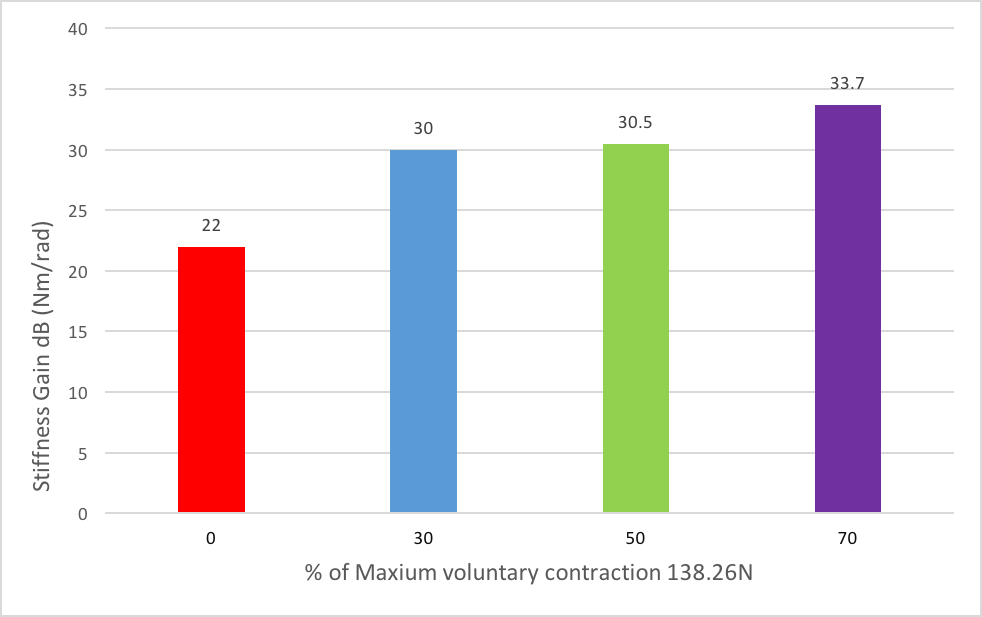
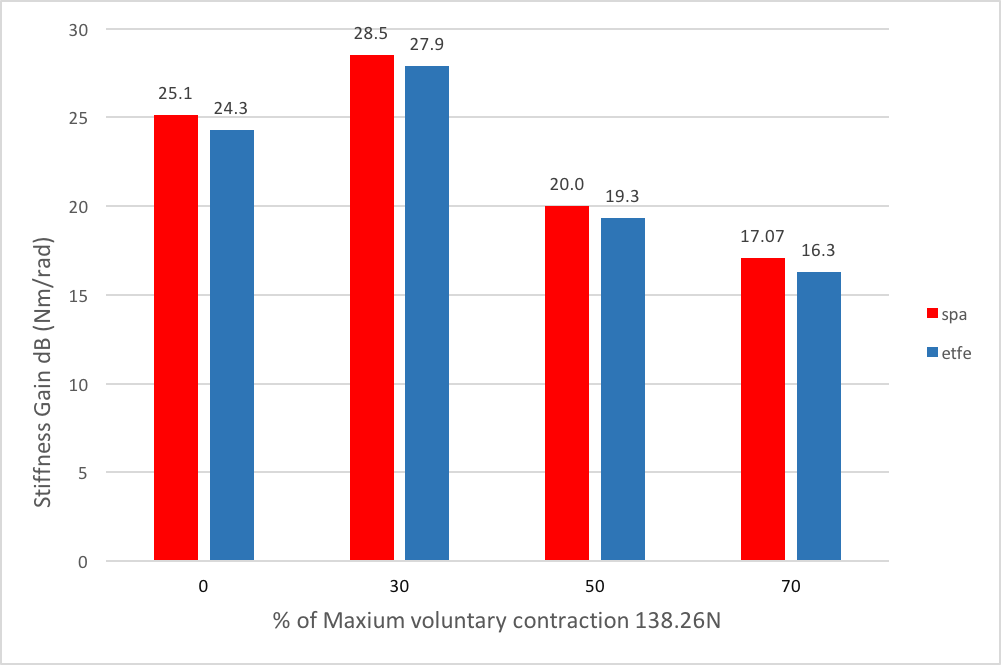
changesomedata

diff --git a/_site/projects/project-7/index.html b/_site/projects/project-7/index.html
@@ -58,7 +58,7 @@
 
 <p>Human ankle impedance system was modeled as a second order linear time-invariant system.</p>
 
-<p>The position input was filtered Gaussian white noise input with an amplitude of 1 rad, filtered using 4th-order Butterworth low-pass filter with 20-Hz cutoff frequency, and a total time of 5 seconds. The simulation sample frequency was 2000 Hz. Noise, which was also filtered using a low-pass filter with 20-Hz cutoff frequency, was added to the output data to more accurately simulate a real system. Torque as output data was collected.</p>
+<p>The position input was filtered Gaussian white noise input with an amplitude of 1 rad, filtered using 4th-order Butterworth low-pass filter with 20-Hz cutoff frequency, and a total time of 5 seconds. The simulation sample frequency was 2000 Hz. Noise, which was also filtered using a low-pass filter with 20-Hz cutoff frequency, was added to the output data to more accurately simulate a real system. The signal to noise ratio was set to be higher than 10. Torque as output data was collected. Torque as output data was collected.</p>
 
 <h3 id="correlation-analysis">Correlation Analysis</h3>
 
@@ -114,22 +114,25 @@ The maximum voluntary contraction (MVC) of the subject was 138.2622N.</p>
 <p align="center">
 <img src="/portfolio//public/images/CPPM_7.jpg" width="500" height="300" />
 </p>
+<center> Impulse response of one trail </center>
 
 <p>Frequency response was identified with Matlab function: <strong>spa</strong> &amp; <strong>etfe</strong></p>
 <p align="center">
-<img src="/portfolio//public/images/CPPM_8.jpg" width="500" height="300" />
+<img src="/portfolio//public/images/CPPM_8.jpg" width="400" height="450" />
 </p>
-<p>It could be seen that increases in the mean torque shift the low-frequency gain curve while the resonant point moves to a higher frequency. The inertial which is the slope of the frequency response almost constant over a wide range of mean torques.</p>
+<center> Frequency response of one trail </center>
 
-<p>The stiffness was determined from the intercept of the frequency response and the magnitude axis, since the value of the magnitude of the frequency response function for small  is log(1/k), k is stiffness.</p>
+<p>It could be seen that stiffness gain was flat at low frequencies, had a resonant valley at intermediate frequencies and rose at high frequencies. Increases in the mean torque shifted the low-frequency gain curve while the resonant point moved to a higher frequency. The inertial which was the slope of the frequency response almost kept constant over a wide range of mean torques.</p>
+
+<p>The stiffness was determined from the intercept of the frequency response and the magnitude axis, since the value of the magnitude of the frequency response function for small is log(1/k), k is stiffness.</p>
 <p align="center">
 <img src="/portfolio//public/images/CPPM_9.png" width="500" height="300" />
 </p>
 <center>Ankle stiffness at different levels of mean torque</center>
-<p>It could be seen that human ankle stiffness increases with the increase of mean torque.</p>
+<p>It could be seen that human ankle stiffness increased with the increase of mean torque within a limited range and then decreased.</p>
 
 <h2 id="conclusion">Conclusion</h2>
-<p>This project designed an attachment to achieve testing human ankle in the coronal plane. From the data analysis, it has shown that human ankle stiffness increases with the increase of mean torque. In the future, this attachment can be extended to do parametric analysis in human ankle inertia, stiffness and damping.</p>
+<p>This project designed an attachment to achieve testing human ankle impedance in the coronal plane. From the data analysis, it has shown that uman ankle stiffness increased with the increase of mean torque within a limited range and then decreased. In the future, this attachment can be extended to do parametric analysis in the parameters of human ankle impedance, such as inertia, stiffness and damping.</p>
 
 
 	</section>

diff --git a/_projects/project-7.md b/_projects/project-7.md
@@ -39,7 +39,7 @@ This attachment is assembled to the Biodex chair and used for testing in the cor
 
 Human ankle impedance system was modeled as a second order linear time-invariant system.
 
-The position input was filtered Gaussian white noise input with an amplitude of 1 rad, filtered using 4th-order Butterworth low-pass filter with 20-Hz cutoff frequency, and a total time of 5 seconds. The simulation sample frequency was 2000 Hz. Noise, which was also filtered using a low-pass filter with 20-Hz cutoff frequency, was added to the output data to more accurately simulate a real system. Torque as output data was collected.
+The position input was filtered Gaussian white noise input with an amplitude of 1 rad, filtered using 4th-order Butterworth low-pass filter with 20-Hz cutoff frequency, and a total time of 5 seconds. The simulation sample frequency was 2000 Hz. Noise, which was also filtered using a low-pass filter with 20-Hz cutoff frequency, was added to the output data to more accurately simulate a real system. The signal to noise ratio was set to be higher than 10. Torque as output data was collected. Torque as output data was collected.
 
 ### Correlation Analysis
 
@@ -93,19 +93,22 @@ Impulse response was identified with Matlab function: **cra** (**Correlation Ana
 <p align="center">
 <img src="{{site.baseurl}}/{{site.image_path}}/{{ page.image7 }}" width="500" height="300" />
 </p>
+<center> Impulse response of one trail </center>
 
 Frequency response was identified with Matlab function: **spa** & **etfe**
 <p align="center">
-<img src="{{site.baseurl}}/{{site.image_path}}/{{ page.image8 }}" width="500" height="300" />
+<img src="{{site.baseurl}}/{{site.image_path}}/{{ page.image8 }}" width="400" height="450" />
 </p>
-It could be seen that increases in the mean torque shift the low-frequency gain curve while the resonant point moves to a higher frequency. The inertial which is the slope of the frequency response almost constant over a wide range of mean torques.
+<center> Frequency response of one trail </center>
 
-The stiffness was determined from the intercept of the frequency response and the magnitude axis, since the value of the magnitude of the frequency response function for small  is log(1/k), k is stiffness.
+It could be seen that stiffness gain was flat at low frequencies, had a resonant valley at intermediate frequencies and rose at high frequencies. Increases in the mean torque shifted the low-frequency gain curve while the resonant point moved to a higher frequency. The inertial which was the slope of the frequency response almost kept constant over a wide range of mean torques.
+
+The stiffness was determined from the intercept of the frequency response and the magnitude axis, since the value of the magnitude of the frequency response function for small is log(1/k), k is stiffness.
 <p align="center">
 <img src="{{site.baseurl}}/{{site.image_path}}/{{ page.image9 }}" width="500" height="300" />
 </p>
 <center>Ankle stiffness at different levels of mean torque</center>
-It could be seen that human ankle stiffness increases with the increase of mean torque.
+It could be seen that human ankle stiffness increased with the increase of mean torque within a limited range and then decreased.
 
 ## Conclusion
-This project designed an attachment to achieve testing human ankle in the coronal plane. From the data analysis, it has shown that human ankle stiffness increases with the increase of mean torque. In the future, this attachment can be extended to do parametric analysis in human ankle inertia, stiffness and damping. 
+This project designed an attachment to achieve testing human ankle impedance in the coronal plane. From the data analysis, it has shown that uman ankle stiffness increased with the increase of mean torque within a limited range and then decreased. In the future, this attachment can be extended to do parametric analysis in the parameters of human ankle impedance, such as inertia, stiffness and damping. 
